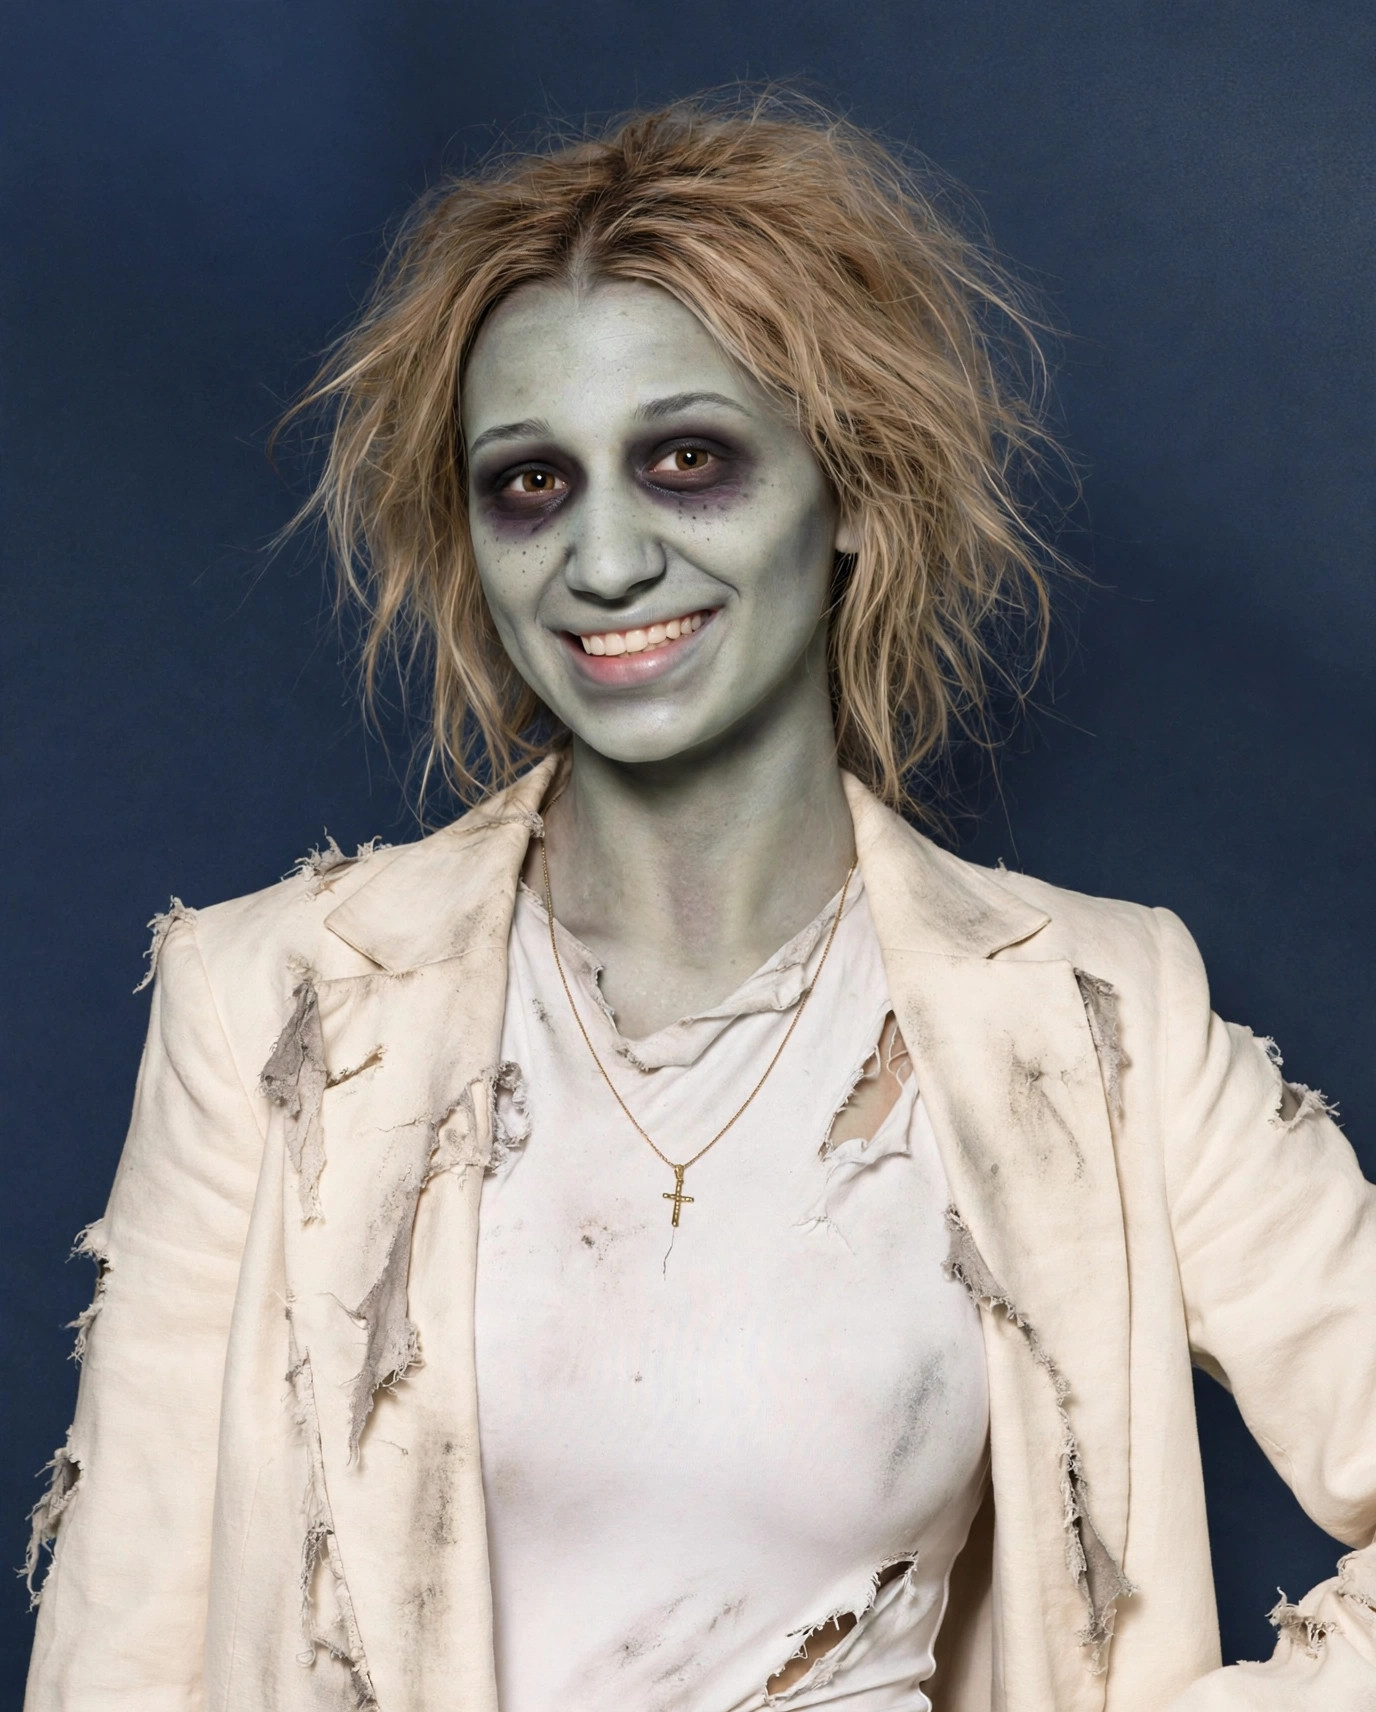
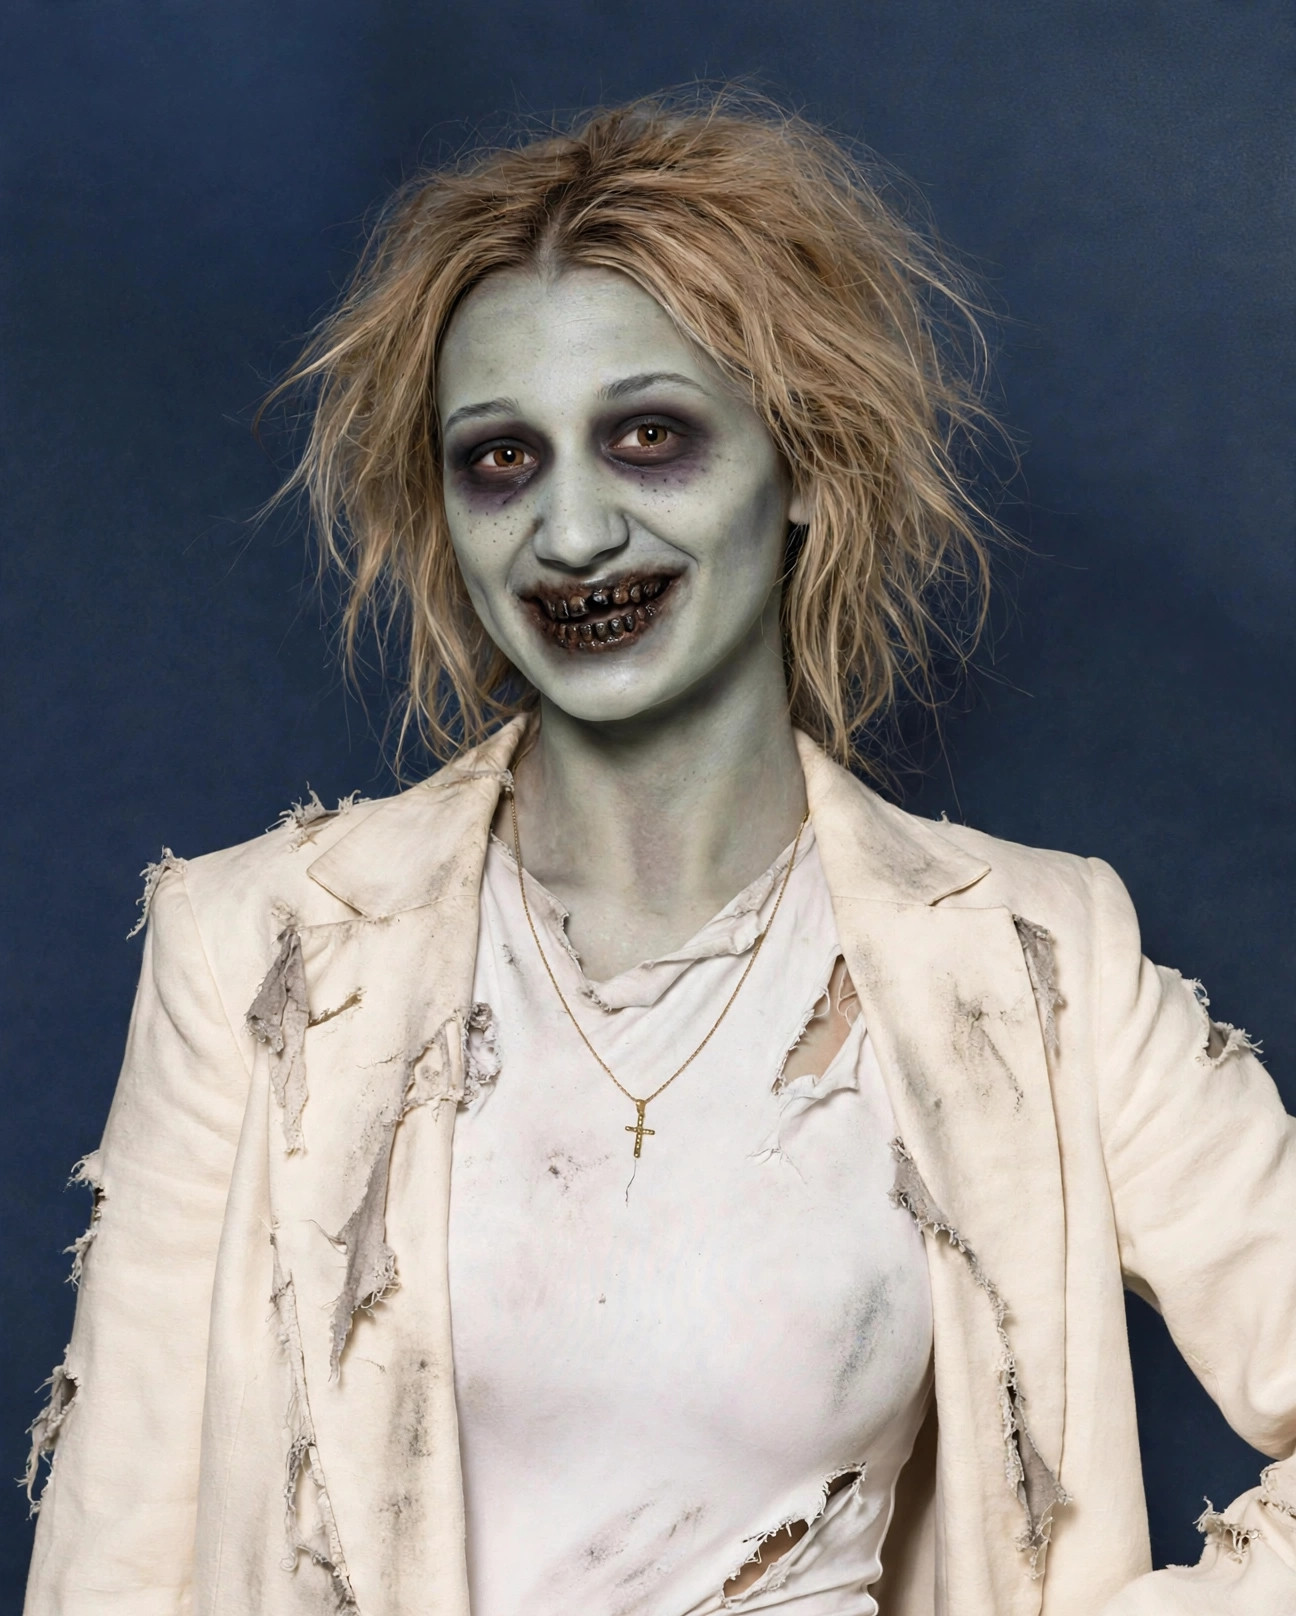
Halloween 2026 v4: all five zombie photos, black teeth for Emily, giant web with crawling spider, Halloween names

diff --git a/index.html b/index.html
@@ -55,7 +55,7 @@
 </head>
 <body>
 <div class="halloween-banner">🎃 👻 Happy Halloween from Stories and Strategies 🦇 🎃</div>
-<script>(function(){if(Date.now()<Date.UTC(2026,10,1,11,0,0)){document.body.classList.add('halloween');document.addEventListener('DOMContentLoaded',function(){document.querySelectorAll('img[data-zombie]').forEach(function(img){img.src=img.getAttribute('data-zombie');});});}})();</script>
+<script>(function(){if(Date.now()<Date.UTC(2026,10,1,11,0,0)){document.body.classList.add('halloween');document.addEventListener('DOMContentLoaded',function(){document.querySelectorAll('img[data-zombie]').forEach(function(img){img.src=img.getAttribute('data-zombie');});document.querySelectorAll('h3[data-halloween-name]').forEach(function(h){h.textContent=h.getAttribute('data-halloween-name');});});}})();</script>
 
 <header id="top">
   <div class="wrap nav">
@@ -80,7 +80,7 @@
   <!-- HERO -->
   <section class="hero">
     <span class="halloween-web left" aria-hidden="true">🕸</span>
-    <span class="halloween-web right" aria-hidden="true">🕸</span>
+    <div class="halloween-giant-web" aria-hidden="true"><span class="giant-web">🕸</span><span class="spider">🕷</span></div>
     <div class="wrap">
       <div>
       <h1>Podcast production for influential
@@ -159,7 +159,7 @@
         <article class="member">
           <img src="images/team/doug.jpg" data-zombie="images/team/doug-zombie.jpg" alt="Doug Downs" loading="lazy">
           <div>
-            <h3>Doug Downs</h3>
+            <h3 data-halloween-name="Doug Demon Downs">Doug Downs</h3>
             <div class="role">Founder</div>
             <p>Doug is a sought after podcast producer specializing in podcast development, analytics, and marketing.</p>
             <p>His experience includes award winning radio and TV journalism, leading communications strategies for corporations on multibillion dollar projects, and media &amp; presentation coaching with executives, politicians, Olympic athletes, and TED Talk presenters.</p>
@@ -168,7 +168,7 @@
         <article class="member">
           <img src="images/team/emily.jpg" data-zombie="images/team/emily-zombie.jpg" alt="Emily Page" loading="lazy">
           <div>
-            <h3>Emily Page</h3>
+            <h3 data-halloween-name="Emily Ghouli-Pop Page">Emily Page</h3>
             <div class="role">Co-Owner, Operations Lead</div>
             <p>Emily plays a pivotal part in orchestrating episode bookings and conducting thorough research and analysis for podcast development.</p>
             <p>Her enthusiasm for learning and dedication to her craft make her an invaluable asset to the Stories and Strategies team.</p>
@@ -177,7 +177,7 @@
         <article class="member">
           <img src="images/team/jocelyn.jpg" data-zombie="images/team/jocelyn-zombie.jpg" alt="Jocelyn Floralde" loading="lazy">
           <div>
-            <h3>Jocelyn Floralde</h3>
+            <h3 data-halloween-name="Jocelyn Jinx Floralde">Jocelyn Floralde</h3>
             <div class="role">Project Coordinator</div>
             <p>Jocelyn keeps the wheels turning behind every episode and every client relationship.</p>
             <p>She ensures seamless day to day operations, from managing timelines to keeping clients informed and supported every step of the way.</p>
@@ -186,16 +186,16 @@
         <article class="member">
           <img src="images/team/filip.jpg" data-zombie="images/team/filip-zombie.jpg" alt="Filip Krstevski" loading="lazy">
           <div>
-            <h3>Filip Krstevski</h3>
+            <h3 data-halloween-name="Filip Fang Krstevski">Filip Krstevski</h3>
             <div class="role">Audio &amp; Video Editor</div>
             <p>Filip is an audio and video editor with more than a decade of experience.</p>
             <p>His extensive knowledge across a wide variety of editing tools lets him blend technical prowess and creative vision into compelling narratives.</p>
           </div>
         </article>
         <article class="member">
-          <img src="images/team/neal.jpg" alt="Neal Matyas" loading="lazy">
+          <img src="images/team/neal.jpg" data-zombie="images/team/neal-zombie.jpg" alt="Neal Matyas" loading="lazy">
           <div>
-            <h3>Neal Matyas</h3>
+            <h3 data-halloween-name="Neal Nightmare Matyas">Neal Matyas</h3>
             <div class="role">Audio &amp; Video Editor</div>
             <p>With decades of broadcast experience, Neal is very familiar with what looks good and sounds good.</p>
             <p>He is well versed in editing, producing, graphic design, and digital animation across countless software platforms.</p>

diff --git a/styles.css b/styles.css
@@ -321,8 +321,25 @@ body.halloween .halloween-web {
   opacity: .9; pointer-events: none;
 }
 body.halloween .halloween-web.left { left: 18px; }
-body.halloween .halloween-web.right { right: 18px; }
+/* Giant web across the top-right of the homepage, with a spider crawling across it. */
+.halloween-giant-web { display: none; }
+body.halloween .halloween-giant-web {
+  display: block; position: absolute; top: -20px; right: -10px; z-index: 5;
+  font-size: 250px; line-height: 1; opacity: .55; pointer-events: none;
+}
+body.halloween .halloween-giant-web .spider {
+  position: absolute; top: 30px; right: 40px; font-size: 46px; line-height: 1;
+  animation: spider-crawl 16s ease-in-out infinite;
+}
+@keyframes spider-crawl {
+  0% { transform: translate(0, 0) rotate(0deg); }
+  25% { transform: translate(-70px, 60px) rotate(-20deg); }
+  50% { transform: translate(-140px, 130px) rotate(15deg); }
+  75% { transform: translate(-70px, 190px) rotate(-10deg); }
+  100% { transform: translate(0, 0) rotate(0deg); }
+}
 @media (max-width: 640px) {
   body.halloween .halloween-hero-decor { font-size: 42px; letter-spacing: .14em; }
   body.halloween .halloween-web { display: none; }
+  body.halloween .halloween-giant-web { display: none; }
 }

diff --git a/episodes/index.html b/episodes/index.html
@@ -50,7 +50,7 @@
 </head>
 <body>
 <div class="halloween-banner">🎃 👻 Happy Halloween from Stories and Strategies 🦇 🎃</div>
-<script>(function(){if(Date.now()<Date.UTC(2026,10,1,11,0,0)){document.body.classList.add('halloween');document.addEventListener('DOMContentLoaded',function(){document.querySelectorAll('img[data-zombie]').forEach(function(img){img.src=img.getAttribute('data-zombie');});});}})();</script>
+<script>(function(){if(Date.now()<Date.UTC(2026,10,1,11,0,0)){document.body.classList.add('halloween');document.addEventListener('DOMContentLoaded',function(){document.querySelectorAll('img[data-zombie]').forEach(function(img){img.src=img.getAttribute('data-zombie');});document.querySelectorAll('h3[data-halloween-name]').forEach(function(h){h.textContent=h.getAttribute('data-halloween-name');});});}})();</script>
 
 <header id="top">
   <div class="wrap nav">

diff --git a/newsletter/index.html b/newsletter/index.html
@@ -50,7 +50,7 @@
 </head>
 <body>
 <div class="halloween-banner">🎃 👻 Happy Halloween from Stories and Strategies 🦇 🎃</div>
-<script>(function(){if(Date.now()<Date.UTC(2026,10,1,11,0,0)){document.body.classList.add('halloween');document.addEventListener('DOMContentLoaded',function(){document.querySelectorAll('img[data-zombie]').forEach(function(img){img.src=img.getAttribute('data-zombie');});});}})();</script>
+<script>(function(){if(Date.now()<Date.UTC(2026,10,1,11,0,0)){document.body.classList.add('halloween');document.addEventListener('DOMContentLoaded',function(){document.querySelectorAll('img[data-zombie]').forEach(function(img){img.src=img.getAttribute('data-zombie');});document.querySelectorAll('h3[data-halloween-name]').forEach(function(h){h.textContent=h.getAttribute('data-halloween-name');});});}})();</script>
 
 <header id="top">
   <div class="wrap nav">
